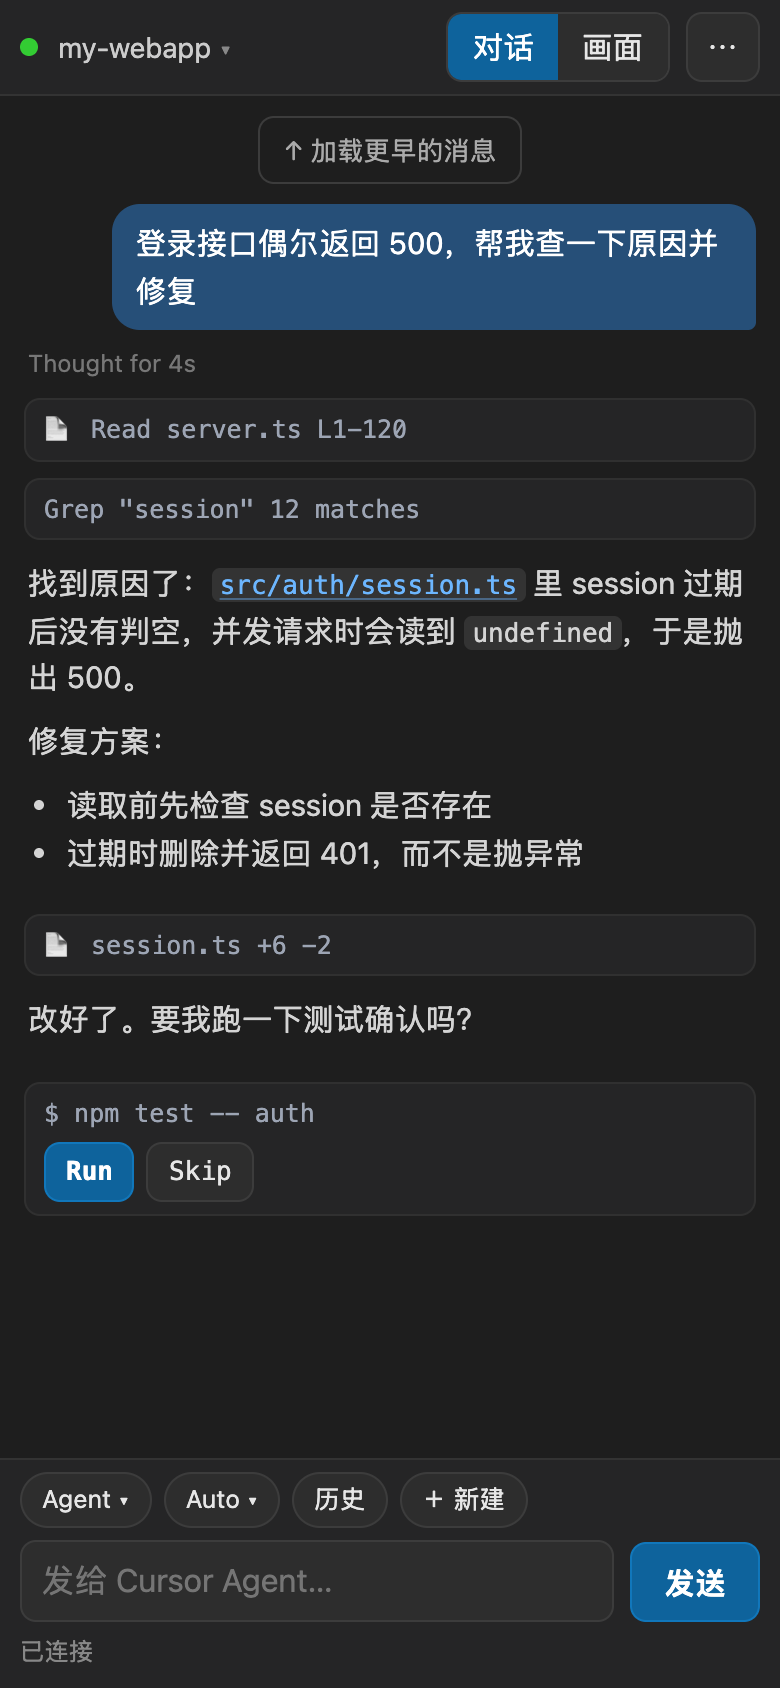
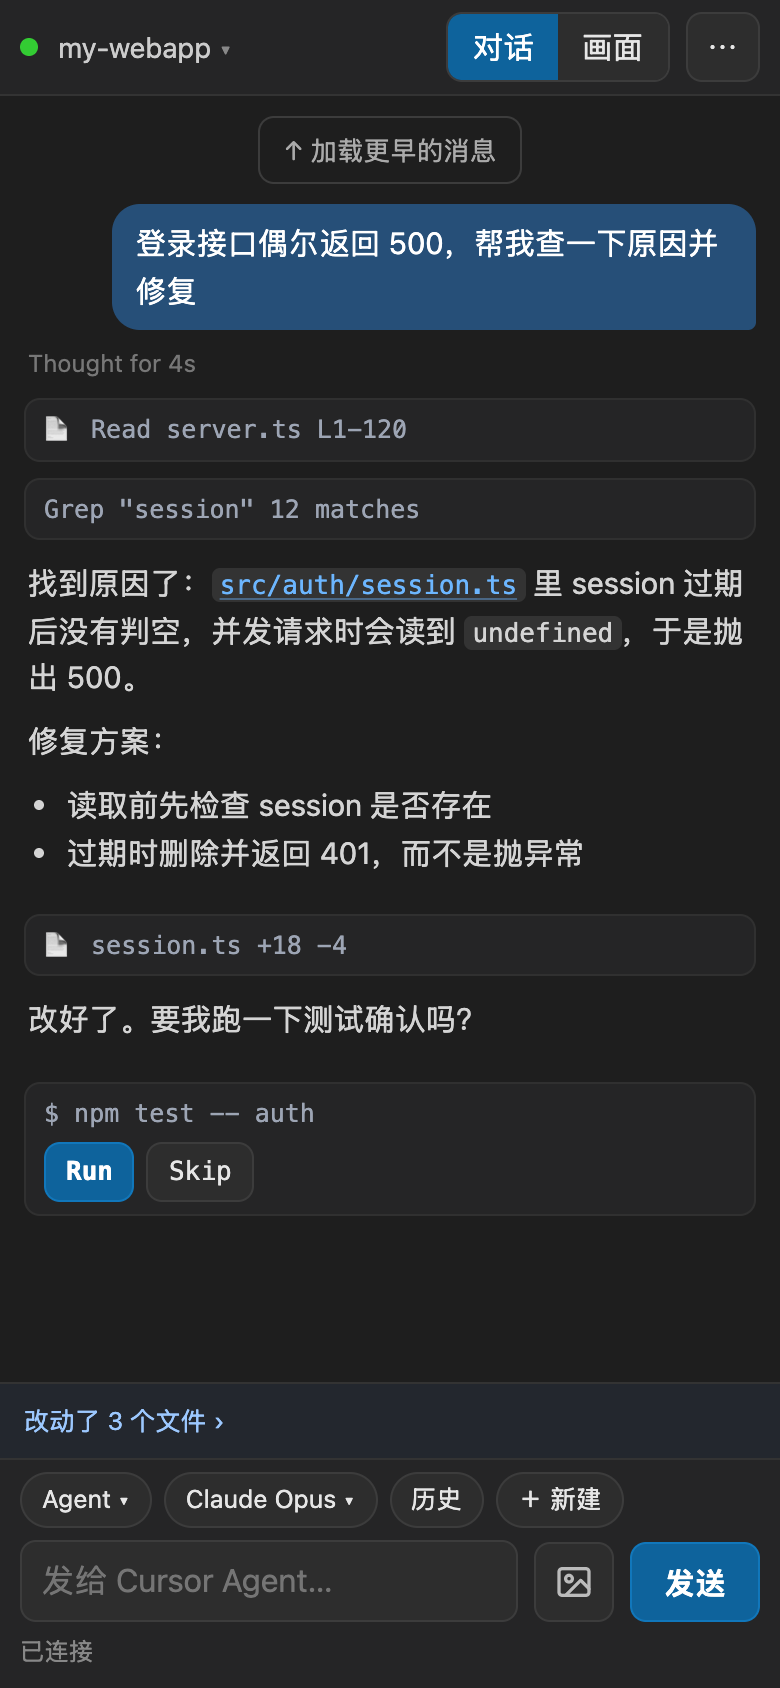
Re-record README demo and screenshots in Chinese and English; move changed-files entry above the composer

diff --git a/app/index.html b/app/index.html
@@ -95,7 +95,7 @@
   #chatTools { display: flex; gap: 6px; overflow-x: auto; scrollbar-width: none; min-width: 0; }
   #chatTools::-webkit-scrollbar { display: none; }
   #chatTools button { font-size: 12.5px; padding: 3px 10px; border-radius: 14px; flex: none; white-space: nowrap; }
-  #chatTools #pickModel { flex: 0 1 auto; min-width: 0; overflow: hidden; text-overflow: ellipsis; }
+  #chatTools #pickModel { flex: 0 1 auto; min-width: 84px; overflow: hidden; text-overflow: ellipsis; }
   .row { display: flex; gap: 8px; min-width: 0; align-items: flex-end; }
   textarea { flex: 1; min-width: 0; min-height: 40px; max-height: 32vh; padding: 9px 10px; resize: none; font-size: 16px; line-height: 1.35; }
   #img { flex: none; height: 40px; width: 40px; padding: 0; display: flex; align-items: center; justify-content: center; color: #bbb; }
@@ -227,7 +227,6 @@
   <div id="chatTools">
     <button id="pickMode" hidden></button>
     <button id="pickModel" hidden></button>
-    <button id="changes" hidden></button>
     <button id="pickHistory">历史</button>
     <button id="newChat">＋ 新建</button>
   </div>
@@ -929,8 +928,6 @@ function renderChat(chat) {
   $('pickModel').hidden = !chat?.model;
   if (chat?.mode) $('pickMode').textContent = chat.mode + ' ▾';
   if (chat?.model) $('pickModel').textContent = chat.model + ' ▾';
-  $('changes').hidden = !chat?.changed;
-  if (chat?.changed) $('changes').textContent = `改动 ${chat.changed} 个文件`;
   if (!chat) { itemsEl.replaceChildren(); renderQueue(false, []); return; }
   const stick = nearBottom();
   // Anchor on the first visible item so loading older messages doesn't jump.
@@ -955,7 +952,7 @@ function renderChat(chat) {
 
   $('actionBar').innerHTML = buttonsHtml(chat.global, 'g');
   $('actionBar').classList.toggle('show', chat.global.length > 0);
-  renderQueue(chat.busy, chat.queued || [], chat.subagents || [], chat.readonly);
+  renderQueue(chat.busy, chat.queued || [], chat.subagents || [], chat.readonly, chat.changed);
 
   if (stick) list.scrollTop = list.scrollHeight;
   else if (anchor) {
@@ -966,7 +963,7 @@ function renderChat(chat) {
 }
 
 let subsOpen = false;
-function renderQueue(busy, queued, subs = [], readonly = false) {
+function renderQueue(busy, queued, subs = [], readonly = false, changed = 0) {
   const bar = $('queueBar');
   let html = '';
   if (readonly) html += `<div class="run sub"><span>正在查看子 Agent 的对话（只读）</span><button data-main>返回主对话</button></div>`;
@@ -983,6 +980,7 @@ function renderQueue(busy, queued, subs = [], readonly = false) {
       + `<button data-q="${esc(q.id)}" data-a="send" title="打断当前这一轮，立刻发送">立即发送</button>`
       + `<button data-q="${esc(q.id)}" data-a="remove">删除</button></div>`).join('');
   }
+  if (changed && !readonly) html += `<button class="qh fold" data-changes>改动了 ${changed} 个文件 ›</button>`;
   bar.innerHTML = html;
   bar.classList.toggle('show', Boolean(html));
 }
@@ -1006,7 +1004,8 @@ function editQueued(id) {
 $('queueBar').onclick = async e => {
   const b = e.target.closest('button');
   if (!b) return;
-  if ('fold' in b.dataset) { subsOpen = !subsOpen; return renderQueue(lastChat?.busy, lastChat?.queued || [], lastChat?.subagents || [], lastChat?.readonly); }
+  if ('changes' in b.dataset) { status('读取改动的文件…'); return send({ t: 'changes' }); }
+  if ('fold' in b.dataset) { subsOpen = !subsOpen; return renderQueue(lastChat?.busy, lastChat?.queued || [], lastChat?.subagents || [], lastChat?.readonly, lastChat?.changed); }
   if ('stop' in b.dataset) {
     if (!await ask('停止 Agent？\n它这一轮正在做的事会中断。', '停止')) return;
     send({ t: 'stop' }); status('已停止 Agent'); return;
@@ -1045,7 +1044,6 @@ document.addEventListener('click', async e => {
 
 $('pickMode').onclick = () => { status('读取模式列表…'); send({ t: 'openMenu', kind: 'mode' }); };
 $('pickModel').onclick = () => { status('读取模型列表…'); send({ t: 'openMenu', kind: 'model' }); };
-$('changes').onclick = () => { status('读取改动的文件…'); send({ t: 'changes' }); };
 $('pickHistory').onclick = () => { status('读取历史对话…'); send({ t: 'openMenu', kind: 'history' }); };
 $('newChat').onclick = () => { send({ t: 'newChat' }); status('已新建对话'); };
 

diff --git a/app/i18n.js b/app/i18n.js
@@ -119,7 +119,8 @@ const I18N = (() => {
     [/^子 Agent 运行中 (\d+) 个$/, 'Subagents running: $1'],
     [/^排队中 (\d+) 条$/, 'Queued: $1'],
     [/^停止子 Agent「(.+)」？$/, 'Stop subagent "$1"?'],
-    [/^改动 (\d+) 个文件$/, '$1 changed'],
+    [/^改动了 1 个文件 ›$/, '1 file changed ›'],
+    [/^改动了 (\d+) 个文件 ›$/, '$1 files changed ›'],
     [/^Agent 改动的文件（(\d+)）$/, 'Files changed by the Agent ($1)'],
     [/^撤销「(.+)」的改动？$/, 'Undo the changes to "$1"?'],
     [/^确定要点「(.+)」吗？$/, 'Really tap "$1"?'],

diff --git a/app/sw.js b/app/sw.js
@@ -1,5 +1,5 @@
 // Caches the app shell so the installed app opens instantly; live data (url.json, relay) always goes to the network.
-const CACHE = 'cursor-remote-v4';
+const CACHE = 'cursor-remote-v5';
 const SHELL = ['./', 'index.html', 'i18n.js', 'manifest.webmanifest', 'icon-192.png', 'icon-512.png'];
 
 self.addEventListener('install', e => {

diff --git a/README.en.md b/README.en.md
@@ -7,15 +7,17 @@ Free, open source and self-hosted. No server needed, and your phone doesn't have
 
 > Inspired by [len5ky/CursorRemote](https://github.com/len5ky/CursorRemote); this is a free version written from scratch.
 
-<p align="center"><img src="docs/quickstart.gif" width="300" alt="Demo: preview a file, switch windows, change model, approve a command, send a message"></p>
+<p align="center"><img src="docs/en/quickstart.gif" width="300" alt="Demo: preview a file, switch windows, adjust model parameters, approve a command, queue a message while the Agent runs, handle changed files"></p>
 
-<p align="center"><sub>Demo: tap a file name to preview it → switch to an SSH window → change model → approve a command → send a message and watch the Agent reply live (demo data)</sub></p>
+<p align="center"><sub>Demo: tap a file name to preview it → switch to an SSH window → raise the model's reasoning effort → approve the test run → expand the running subagents → a message sent while the Agent is busy is queued and goes out when the turn ends → keep / undo changed files one by one (undo asks first) (demo data)</sub></p>
 
 ## Screenshots
 
 | Chat | File preview | Switch window | Pick model |
 |:-:|:-:|:-:|:-:|
-| <img src="docs/ui-chat.png" width="190" alt="Chat"> | <img src="docs/ui-file.png" width="190" alt="File preview"> | <img src="docs/ui-windows.png" width="190" alt="Switch window"> | <img src="docs/ui-model.png" width="190" alt="Pick model"> |
+| <img src="docs/en/ui-chat.png" width="190" alt="Chat"> | <img src="docs/en/ui-file.png" width="190" alt="File preview"> | <img src="docs/en/ui-windows.png" width="190" alt="Switch window"> | <img src="docs/en/ui-model.png" width="190" alt="Pick model"> |
+| **Model parameters** | **Running: subagents + queue** | **Changed files** | **Confirm risky actions** |
+| <img src="docs/en/ui-params.png" width="190" alt="Model parameters"> | <img src="docs/en/ui-running.png" width="190" alt="Running: subagents and queued messages"> | <img src="docs/en/ui-changes.png" width="190" alt="Changed files"> | <img src="docs/en/ui-confirm.png" width="190" alt="Confirmation"> |
 
 ## Why I built this
 
@@ -74,7 +76,7 @@ So this project provides both: an Android app that installs without Google servi
 - **Model parameters**: tap "Parameters" in the model list to adjust context length (e.g. 300K / 1M), reasoning effort (Low → Max) and the Fast toggle; there's also a MAX Mode toggle at the top. Which options are available depends on what Cursor offers for that model.
 - **Queued messages**: messages sent while the Agent is running go into Cursor's queue. Your phone shows "Agent is running" plus each queued message, which you can edit, send immediately (interrupting the current turn) or delete. You can also stop the Agent with one tap.
 - **Sub-agents**: while sub-agents spawned by the Agent are running, your phone shows "Subagents running: N" (collapsed by default; tap to expand the list). Tap "View" to see a sub-agent's own conversation (read-only), or stop it individually.
-- **Changed files**: after the Agent edits files, "N changed" appears above the input box. Tap it to see lines added / removed per file, tap a file name to view it, and Keep or Undo each file, just like Keep / Undo on the desktop.
+- **Changed files**: after the Agent edits files, "N files changed ›" appears above the input box. Tap it to see lines added / removed per file, tap a file name to view it, and Keep or Undo each file, just like Keep / Undo on the desktop.
 - **Send images**: the image button next to the input box attaches a photo or screenshot (say, a picture of an error on another screen) to Cursor's input box, so you can send it along with your message. Large images are compressed on the phone first.
 - **Confirmation for risky actions**: stopping the Agent or a sub-agent, undoing changes, deleting queued messages, rejecting, removing a device and unpairing all ask for confirmation first.
 - **Voice input (off by default)**: your keyboard's microphone already does dictation, so the microphone button is hidden by default. Turn it on under "⋯ → Voice button": the Android app uses the system speech recognizer; iPhone / browsers use the browser's built-in speech recognition.
@@ -122,7 +124,7 @@ npm run pair
 A QR code appears in the terminal (valid for 10 minutes, single use). Scan it with your phone's camera or browser to open it; there's no password to type.
 If you can't scan it, send the link shown below the QR code to your phone and open it (or paste it into the app's input box).
 
-<p align="center"><img src="docs/ui-pair.png" width="220" alt="Screen shown before pairing"></p>
+<p align="center"><img src="docs/en/ui-pair.png" width="220" alt="Screen shown before pairing"></p>
 
 **Step 3: Install it on your phone (optional, but recommended)**
 
